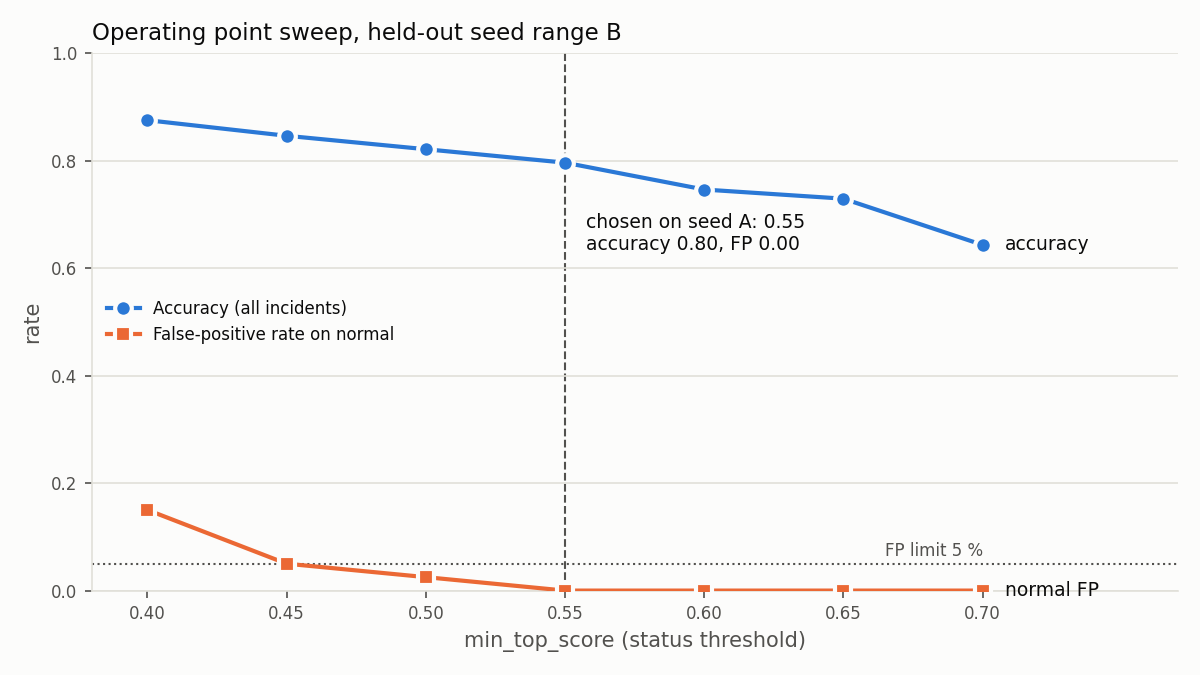
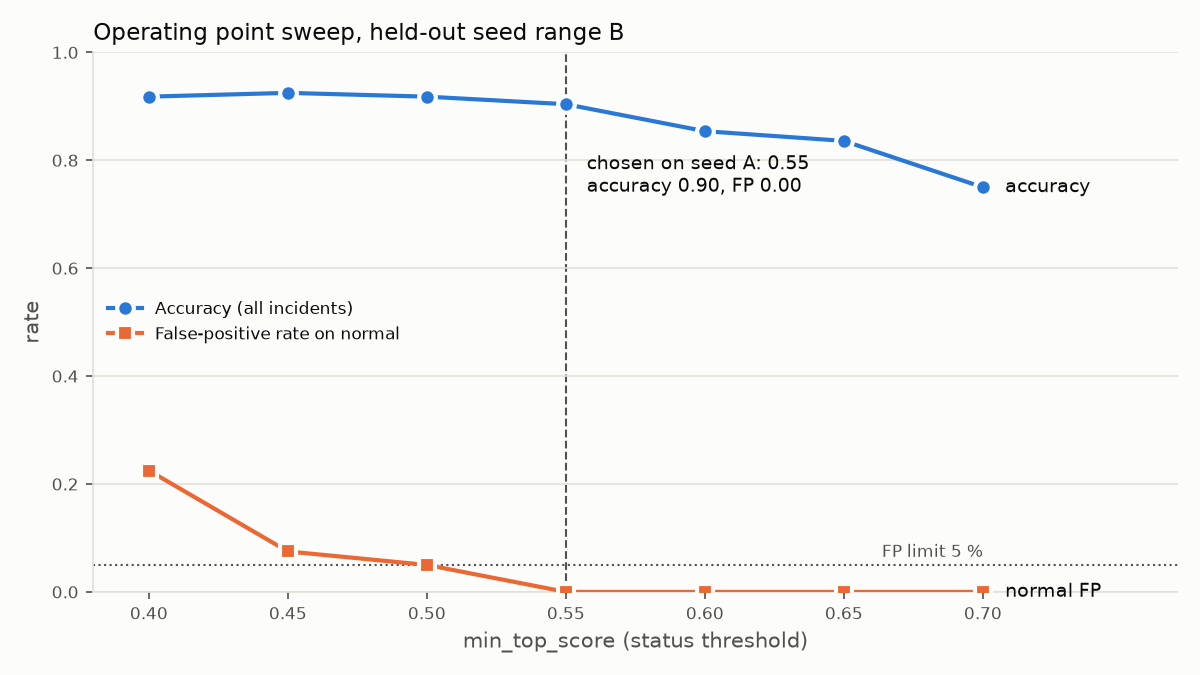
U5: re-run sweep (0.55 kept), full eval for both sources; refresh README, chart, DEMO numbers

diff --git a/netcoop/docs.py b/netcoop/docs.py
@@ -91,6 +91,18 @@ def tables() -> dict[str, str]:
         text = (rep / "eval.md").read_text(encoding="utf-8")
         b = text.find("## Seed range B")
         out["eval"] = (text[b:] if b >= 0 else text).replace("## Seed range B", "#### Seed range B").strip()
+    if (rep / "sweep.json").exists():
+        sw = json.loads((rep / "sweep.json").read_text(encoding="utf-8"))
+        rows = ["| min_top_score | A accuracy | A wrong-diagnosis | A normal FP | A fault→healthy | eligible | B accuracy | "
+                "B wrong-diagnosis | B normal FP | B committed precision |", "|---|---|---|---|---|---|---|---|---|---|"]
+        for a_, b_ in zip(sw["A"], sw["B"], strict=False):
+            ok = (a_["wrong_diagnosis_rate"] <= 0.03 and a_["false_positive_rate_normal"] <= 0.05
+                  and a_.get("fault_to_no_fault_rate", 0) <= 0.03)
+            mark = "**chosen**" if a_["min_top_score"] == sw["chosen"] else ("✓" if ok else "✗")
+            rows.append(f"| {a_['min_top_score']:.2f} | {a_['accuracy']} | {a_['wrong_diagnosis_rate']} | "
+                        f"{a_['false_positive_rate_normal']} | {a_.get('fault_to_no_fault_rate', '-')} | {mark} | {b_['accuracy']} | "
+                        f"{b_['wrong_diagnosis_rate']} | {b_['false_positive_rate_normal']} | {b_['precision_when_diagnosed']} |")
+        out["sweep"] = "\n".join(rows)
     if (rep / "organizer.md").exists():
         out["organizer"] = (rep / "organizer.md").read_text(encoding="utf-8").strip()
     if (rep / "fuzz.md").exists():

diff --git a/eval/run_eval.py b/eval/run_eval.py
@@ -341,12 +341,13 @@ def cmd_sweep(a: argparse.Namespace) -> None:
     base = load_config()
     REPORTS.mkdir(parents=True, exist_ok=True)
     rows_a = sweep_rows(base, make_incidents(a.n, a.seed_a))
-    ok = [r for r in rows_a if r["wrong_diagnosis_rate"] <= 0.03 and r["false_positive_rate_normal"] <= 0.05]
+    ok = [r for r in rows_a if r["wrong_diagnosis_rate"] <= 0.03 and r["false_positive_rate_normal"] <= 0.05
+          and r["fault_to_no_fault_rate"] <= 0.03]
     chosen = max(ok, key=lambda r: (r["accuracy"], -r["min_top_score"]))["min_top_score"] if ok else None
     print(f"chosen on A: min_top_score={chosen}")
     rows_b = sweep_rows(base, make_incidents(a.n, a.seed_b))
     (REPORTS / "sweep.json").write_text(json.dumps({"seed_a": a.seed_a, "seed_b": a.seed_b, "n": a.n, "chosen": chosen,
-                                                     "rule": "max accuracy on A with wrong<=0.03 and normal FP<=0.05",
+                                                     "rule": "max accuracy on A with wrong<=0.03, normal FP<=0.05, fault->healthy<=0.03",
                                                      "A": rows_a, "B": rows_b}, indent=2), encoding="utf-8")
     try:
         from eval.plot import operating_point_chart

diff --git a/README.md b/README.md
@@ -488,39 +488,43 @@ seed 5000, 280 generated incidents (30% with 5–30 % corrupted records), wirele
 
 **Reading the numbers honestly:**
 * Most errors are *abstentions*, not wrong answers. When NetCoop commits to a diagnosis it is right
-  98.5% of the time; the wrong-diagnosis rate is 1.1% and the
-  false-positive rate on normal is 0%.
-* **Never overconfident** (seed B): in every confidence bin, observed accuracy is at or above the mean stated
-  confidence. We do not call this "calibrated": confidence is conservative, not matched.
+  98.2% of the time; the wrong-diagnosis rate is 1.4%, the
+  false-positive rate on normal is 0%, and a real fault is reported healthy in
+  1.3% of fault incidents.
+* **Never overconfident** (seed B): in every confidence bin, observed accuracy is at or above the mean stated confidence.
+  We do not call this "calibrated": confidence is conservative, not matched.
 
   | stated confidence bin | n | mean stated | observed accuracy |
   |---|---|---|---|
-  | [0.50, 0.75] | 54 | 0.644 | 0.963 |
-  | [0.75, 0.90] | 66 | 0.83 | 0.985 |
-  | [0.90, 1.00] | 81 | 0.992 | 1.0 |
+  | [0.50, 0.75] | 56 | 0.646 | 0.964 |
+  | [0.75, 0.90] | 73 | 0.829 | 0.973 |
+  | [0.90, 1.00] | 90 | 0.99 | 1.0 |
 
-* `normal` is the weakest class (0.625). Confounders put readings at or above `high` on healthy
-  networks (a busy link, a CPU spike). Those runs report `insufficient_evidence (no_signature_match)`: something
-  is anomalous but matches no fault. Warn-only readings yield `no_fault_detected`, with the readings listed under `observations`.
-* A fault reported as healthy (fault → `no_fault_detected`) happens in 1.3% of fault incidents.
+* Weakest classes on B: device_overload (0.8) and congestion
+  (0.8). Their misses are mostly weakened faults ending as `insufficient_evidence`, plus a few
+  overload↔congestion swaps (see the confusion matrix).
+* `normal` is 0.95. A lone `high` reading that nothing corroborates (a busy link, a CPU
+  blip) is an observation, not an anomaly (U4).
 
 ### Operating point (`python -m eval.run_eval sweep`)
 
 `min_top_score` was swept 0.40–0.70 on **seed range A**. The rule, fixed before running: pick the highest accuracy with
-wrong-diagnosis ≤ 3% and normal false-positive ≤ 5%. Result: **0.55** (0.50 misses at 3.2% wrong on A). The chart
-and the B columns are held-out.
+wrong-diagnosis ≤ 3%, normal false-positive ≤ 5% and real-fault-reported-healthy ≤ 3%. Result: **0.55** (re-checked
+after U1–U4: 0.50 fails on A with normal FP 7.5%). The chart and the B columns are held-out.
 
 ![Operating point sweep on seed range B](docs/operating_point.png)
 
-| min_top_score | A accuracy | A wrong-diagnosis | A normal FP | eligible | B accuracy | B wrong-diagnosis | B normal FP | B committed precision |
-|---|---|---|---|---|---|---|---|---|
-| 0.40 | 0.836 | 0.079 | 0.225 | ✗ | 0.875 | 0.039 | 0.15 | 0.952 |
-| 0.45 | 0.811 | 0.054 | 0.1 | ✗ | 0.846 | 0.021 | 0.05 | 0.972 |
-| 0.50 | 0.786 | 0.032 | 0.05 | ✗ | 0.821 | 0.014 | 0.025 | 0.981 |
-| 0.55 | 0.743 | 0.025 | 0.025 | ✓ | 0.796 | 0.011 | 0.0 | 0.985 |
-| 0.60 | 0.714 | 0.007 | 0.0 | ✓ | 0.746 | 0.004 | 0.0 | 0.995 |
-| 0.65 | 0.7 | 0.007 | 0.0 | ✓ | 0.729 | 0.004 | 0.0 | 0.994 |
-| 0.70 | 0.618 | 0.007 | 0.0 | ✓ | 0.643 | 0.004 | 0.0 | 0.994 |
+<!-- BEGIN GENERATED: sweep -->
+| min_top_score | A accuracy | A wrong-diagnosis | A normal FP | A fault→healthy | eligible | B accuracy | B wrong-diagnosis | B normal FP | B committed precision |
+|---|---|---|---|---|---|---|---|---|---|
+| 0.40 | 0.921 | 0.061 | 0.25 | 0.004 | ✗ | 0.918 | 0.05 | 0.225 | 0.942 |
+| 0.45 | 0.925 | 0.043 | 0.125 | 0.004 | ✗ | 0.925 | 0.029 | 0.075 | 0.965 |
+| 0.50 | 0.907 | 0.029 | 0.075 | 0.008 | ✗ | 0.918 | 0.021 | 0.05 | 0.974 |
+| 0.55 | 0.857 | 0.025 | 0.05 | 0.017 | **chosen** | 0.904 | 0.014 | 0.0 | 0.982 |
+| 0.60 | 0.829 | 0.007 | 0.0 | 0.021 | ✓ | 0.854 | 0.007 | 0.0 | 0.99 |
+| 0.65 | 0.804 | 0.007 | 0.0 | 0.025 | ✓ | 0.836 | 0.007 | 0.0 | 0.99 |
+| 0.70 | 0.718 | 0.007 | 0.0 | 0.025 | ✓ | 0.75 | 0.007 | 0.0 | 0.989 |
+<!-- END GENERATED: sweep -->
 
 <!-- BEGIN GENERATED: fuzz -->
 #### Degradation under corrupted input
@@ -529,16 +533,16 @@ and the B columns are held-out.
 
 | corruption rate | accuracy | precision when diagnosed | insufficient_evidence | FP on normal | values recovered | records quarantined | failed | crashes | accuracy w/o registry | |
 |---|---|---|---|---|---|---|---|---|---|---|
-| 0% | 0.814 | 0.964 | 0.143 | 0.0 | 0 | 0.0 % | 0 | 0 | 0.471 | `████████████████` |
-| 10% | 0.814 | 0.981 | 0.157 | 0.0 | 808 | 0.4 % | 0 | 0 | 0.471 | `████████████████` |
-| 20% | 0.814 | 0.964 | 0.143 | 0.0 | 1798 | 0.6 % | 0 | 0 | 0.443 | `████████████████` |
-| 30% | 0.814 | 0.981 | 0.157 | 0.0 | 2739 | 1.0 % | 0 | 0 | 0.414 | `████████████████` |
-| 40% | 0.757 | 1.0 | 0.229 | 0.0 | 3703 | 1.2 % | 0 | 0 | 0.386 | `███████████████` |
-| 50% | 0.771 | 1.0 | 0.214 | 0.0 | 5241 | 1.9 % | 0 | 0 | 0.257 | `███████████████` |
-| 60% | 0.757 | 1.0 | 0.229 | 0.0 | 6358 | 2.1 % | 0 | 0 | 0.286 | `███████████████` |
+| 0% | 0.943 | 0.983 | 0.029 | 0.0 | 0 | 0.0 % | 0 | 0 | 0.514 | `███████████████████` |
+| 10% | 0.943 | 1.0 | 0.043 | 0.0 | 808 | 0.4 % | 0 | 0 | 0.514 | `███████████████████` |
+| 20% | 0.929 | 0.982 | 0.043 | 0.0 | 1798 | 0.6 % | 0 | 0 | 0.486 | `███████████████████` |
+| 30% | 0.943 | 0.983 | 0.029 | 0.0 | 2739 | 1.0 % | 0 | 0 | 0.457 | `███████████████████` |
+| 40% | 0.886 | 1.0 | 0.1 | 0.0 | 3703 | 1.2 % | 0 | 0 | 0.457 | `██████████████████` |
+| 50% | 0.9 | 1.0 | 0.086 | 0.0 | 5241 | 1.9 % | 0 | 0 | 0.3 | `██████████████████` |
+| 60% | 0.886 | 1.0 | 0.1 | 0.0 | 6358 | 2.1 % | 0 | 0 | 0.329 | `██████████████████` |
 <!-- END GENERATED: fuzz -->
 
-Accuracy degrades gently, from 0.814 on clean input to 0.757 at 60% corrupted records, because the normalizer *recovers* what is recoverable: thousands of values are converted, inferred, canonicalized or upcast per sweep step. **Registry-off ablation:** without the metric registry's aliases and unit aliases, accuracy is 0.471 on clean input (~0.45) and falls to 0.286 at 60%. Even clean organizer-style input suffers, because the generator's own field names (`cpu_utilization_pct`, `queue_drops`, `interface_errors`) are not canonical. Corruption causes zero crashes and zero failed runs.
+Accuracy degrades gently, from 0.943 on clean input to 0.886 at 60% corrupted records, because the normalizer *recovers* what is recoverable: thousands of values are converted, inferred, canonicalized or upcast per sweep step. **Registry-off ablation:** without the metric registry's aliases and unit aliases, accuracy is 0.514 on clean input and falls to 0.329 at 60%. Even clean organizer-style input suffers, because the generator's own field names (`cpu_utilization_pct`, `queue_drops`, `interface_errors`) are not canonical. Corruption causes zero crashes and zero failed runs.
 
 ---
 

diff --git a/docs/DEMO.md b/docs/DEMO.md
@@ -32,7 +32,7 @@ Every step prints a compact colored summary and writes a static timeline:
 | # | Step | Expected on screen | Talking points |
 |---|---|---|---|
 | 1 | **Congestion** | `diagnosed`, *Likely link congestion … on L_HOSTEL_UPLINK*. Evidence comes from performance + infrastructure agents. Predictions `P-1-1 … HIT`, `P-1-2 … MISS`, `P-1-3 … HIT` | • Six agents exchange typed NMP messages over one bus, and every message is in an append-only event log (show the timeline lanes). • **Predict before you look:** the prediction "interface errors stay low" is logged at seq 15. The evidence request is seq 18 and the answer seq 20. A test fails if that order is ever violated. |
-| 2 | **Wi-Fi without the agent** | `insufficient_evidence`; missing signals `rssi_dbm@AP_H3, snr_db@AP_H3, retransmission_pct@AP_H3` | • High packet loss at AP_H3 is real, but no signature matches with the data we have, and no connected agent can provide RF metrics. • We say so instead of guessing: across 1,000 raw organizer fault records, NetCoop never committed to a made-up cause. |
+| 2 | **Wi-Fi without the agent** | `insufficient_evidence`; missing signals `rssi_dbm@AP_H3, snr_db@AP_H3, retransmission_pct@AP_H3` | • High packet loss at AP_H3 is real, but no signature matches with the data we have, and no connected agent can provide RF metrics. • We say so instead of guessing, and list exactly which signals would resolve it. |
 | 3 | **Start `wireless_agent`** | card `wifi-probe v0.9.3`, skill `wifi-rf-telemetry` | • A different language (Node.js) and a different protocol dialect (v0.9: `signal`, `noise_margin`, `retx` as a fraction, epoch timestamps, `ap-h3`). • It joins mid-session: discovered from the allowlist, no restart. |
 | 4 | **Conformance** | 7/7 PASS | • Valid card, valid replies, `error` on malformed input, idempotent on a duplicate `message_id`, tolerates a newer MINOR version. • The same kit runs against any agent URL, and the official `a2a-sdk` 1.3.0 client also talks to this agent. |
 | 5 | **Wi-Fi again** | `diagnosed`, *Likely weak Wi-Fi … on AP_H3*; RSSI −78 dBm, SNR 13 dB, retransmissions 28% | • Same incident file; the only change is that an agent joined. • The timeline shows the translation: `version 0.9→1.0`, `noise_margin→snr_db`, `ap-h3→AP_H3`, `retx 0.28 fraction → 28 %`. |
@@ -40,17 +40,19 @@ Every step prints a compact colored summary and writes a static timeline:
 | 7 | **Policy** | `BLOCKED Reboot HOSTEL_CORE_SW_01: blocked by R1 (Class hours)` | • Recommendations come only from the playbook and pass code-enforced rules. The reboot is shown as *blocked with a rule id*, never silently dropped. • Remediation is never executed. |
 | 8 | **Normal network** | `no_fault_detected` | • A healthy network is reported as healthy. Warn-level noise goes to `observations`, never to evidence. |
 
-### Numbers to quote (held-out seed range B, 280 generated incidents; `eval/reports/`)
+### Numbers to quote (`eval/reports/`; tuned on seed range A, reported on held-out seed range B)
 
-* When NetCoop commits to a diagnosis it is right **98.5%** of the time. The wrong-diagnosis rate is **1.1%**,
-  and the false-positive rate on healthy networks is **0%** (operating point `min_top_score = 0.55`, chosen on seed range A).
-* Overall accuracy is **0.80**. Most misses are honest `insufficient_evidence` (18%), not wrong answers.
-  Localization is right **99.5%** of the time when the fault type is right.
+**Organizer generator** (raw `data/generator/organizer_generator.py`, 500 seeds per label, seed range B):
+* `normal` → `no_fault_detected` **100%**; `latency_spike` → latency_spike **100%**; `hardware_failure` → hardware_failure **100%**.
+* Wrong diagnoses 0%, false positives 0%, faults reported healthy 0%.
+
+**NetCoop extended generator** (7 classes, 280 incidents, hardened with confounders, gaps and corruption; seed range B):
+* Overall accuracy **0.90**. When it commits it is right **98.2%** of the time; the wrong-diagnosis rate is
+  **1.4%**, normal false positives **0%**, and a fault is reported healthy in **1.3%** of cases.
+* Per class: normal 0.95, congestion 0.8, interface 0.975,
+  overload 0.8, Wi-Fi 0.9, DNS 0.95, DHCP 0.95.
 * **Never overconfident:** in every confidence bin, observed accuracy ≥ stated confidence.
-* Robustness: accuracy goes 0.81 → 0.76 with **60%** of input records corrupted. Without the alias/unit registry it
-  is 0.47 even on clean input.
-* Organizer generator (raw): 500/500 healthy records → `no_fault_detected`; 1,000/1,000 fault records detected,
-  0 fabricated root causes.
+* Robustness: 0.943 → 0.886 with **60%** of input records corrupted; without the alias/unit registry, 0.514 even on clean input.
 
 ## Fallback plan
 

diff --git a/eval/reports/fuzz.md b/eval/reports/fuzz.md
@@ -4,10 +4,10 @@
 
 | corruption rate | accuracy | precision when diagnosed | insufficient_evidence | FP on normal | values recovered | records quarantined | failed | crashes | accuracy w/o registry | |
 |---|---|---|---|---|---|---|---|---|---|---|
-| 0% | 0.814 | 0.964 | 0.143 | 0.0 | 0 | 0.0 % | 0 | 0 | 0.471 | `████████████████` |
-| 10% | 0.814 | 0.981 | 0.157 | 0.0 | 808 | 0.4 % | 0 | 0 | 0.471 | `████████████████` |
-| 20% | 0.814 | 0.964 | 0.143 | 0.0 | 1798 | 0.6 % | 0 | 0 | 0.443 | `████████████████` |
-| 30% | 0.814 | 0.981 | 0.157 | 0.0 | 2739 | 1.0 % | 0 | 0 | 0.414 | `████████████████` |
-| 40% | 0.757 | 1.0 | 0.229 | 0.0 | 3703 | 1.2 % | 0 | 0 | 0.386 | `███████████████` |
-| 50% | 0.771 | 1.0 | 0.214 | 0.0 | 5241 | 1.9 % | 0 | 0 | 0.257 | `███████████████` |
-| 60% | 0.757 | 1.0 | 0.229 | 0.0 | 6358 | 2.1 % | 0 | 0 | 0.286 | `███████████████` |
+| 0% | 0.943 | 0.983 | 0.029 | 0.0 | 0 | 0.0 % | 0 | 0 | 0.514 | `███████████████████` |
+| 10% | 0.943 | 1.0 | 0.043 | 0.0 | 808 | 0.4 % | 0 | 0 | 0.514 | `███████████████████` |
+| 20% | 0.929 | 0.982 | 0.043 | 0.0 | 1798 | 0.6 % | 0 | 0 | 0.486 | `███████████████████` |
+| 30% | 0.943 | 0.983 | 0.029 | 0.0 | 2739 | 1.0 % | 0 | 0 | 0.457 | `███████████████████` |
+| 40% | 0.886 | 1.0 | 0.1 | 0.0 | 3703 | 1.2 % | 0 | 0 | 0.457 | `██████████████████` |
+| 50% | 0.9 | 1.0 | 0.086 | 0.0 | 5241 | 1.9 % | 0 | 0 | 0.3 | `██████████████████` |
+| 60% | 0.886 | 1.0 | 0.1 | 0.0 | 6358 | 2.1 % | 0 | 0 | 0.329 | `██████████████████` |

diff --git a/TODO.md b/TODO.md
@@ -230,6 +230,15 @@ Guards: precision ≥ 95% ✓; fault → no_fault ≤ 3% ✓.
 - Seed A: normal 0.55 → 0.925; guards: wrong 2.5%, FP 5.0%, fault→healthy 1.7% ✓. Seed B: normal 0.625 → **0.95** ✓.
   Organizer A unchanged (100%).
 
+## U5: re-eval
+
+- Sweep re-run on seed A with all three guards in the selection rule (wrong ≤ 3%, normal FP ≤ 5%, fault→healthy ≤ 3%).
+  It still picks **0.55** (0.50 fails on A with normal FP 7.5%). No constant changed, so CLAUDE.md §6.3 constants are unchanged; the §6.3 *text*
+  was updated in U1 (completeness) and U4 (uncorroborated high).
+- Full eval: our generator (A/B), organizer (A/B, 500 per label), fuzz, `docs/operating_point.png`.
+  README tables are now generated, including the sweep table (previously static). The README prose and DEMO.md numbers
+  are rebuilt from the reports.
+
 ## Open
 
 - [ ] Fill `policies.yaml` with the campus's real calendar (exam weeks, class hours per segment, SLAs).
